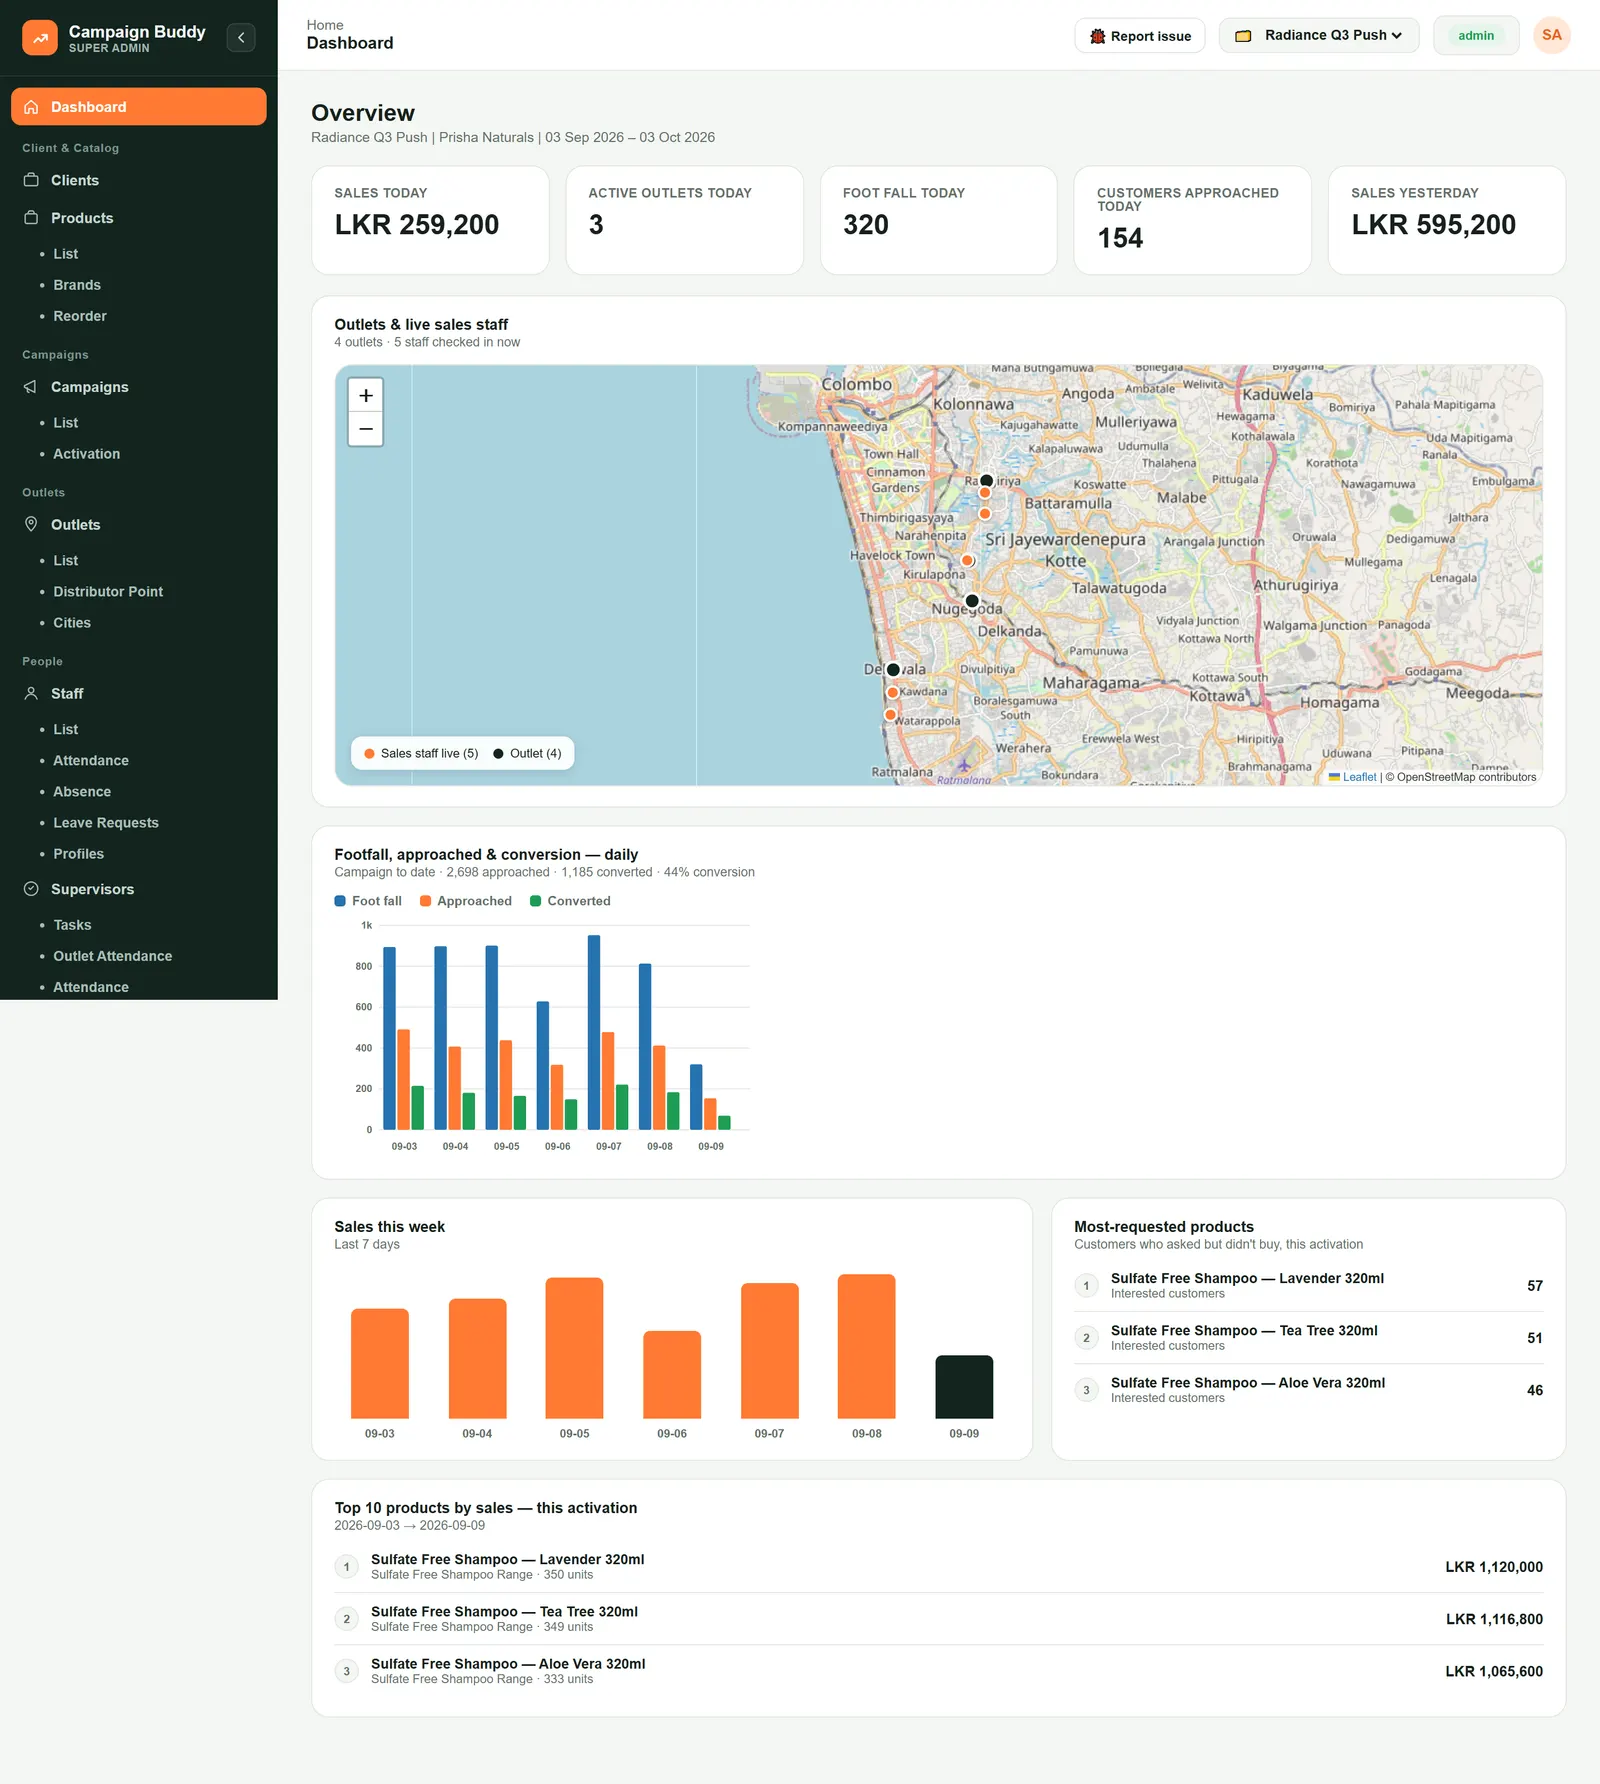
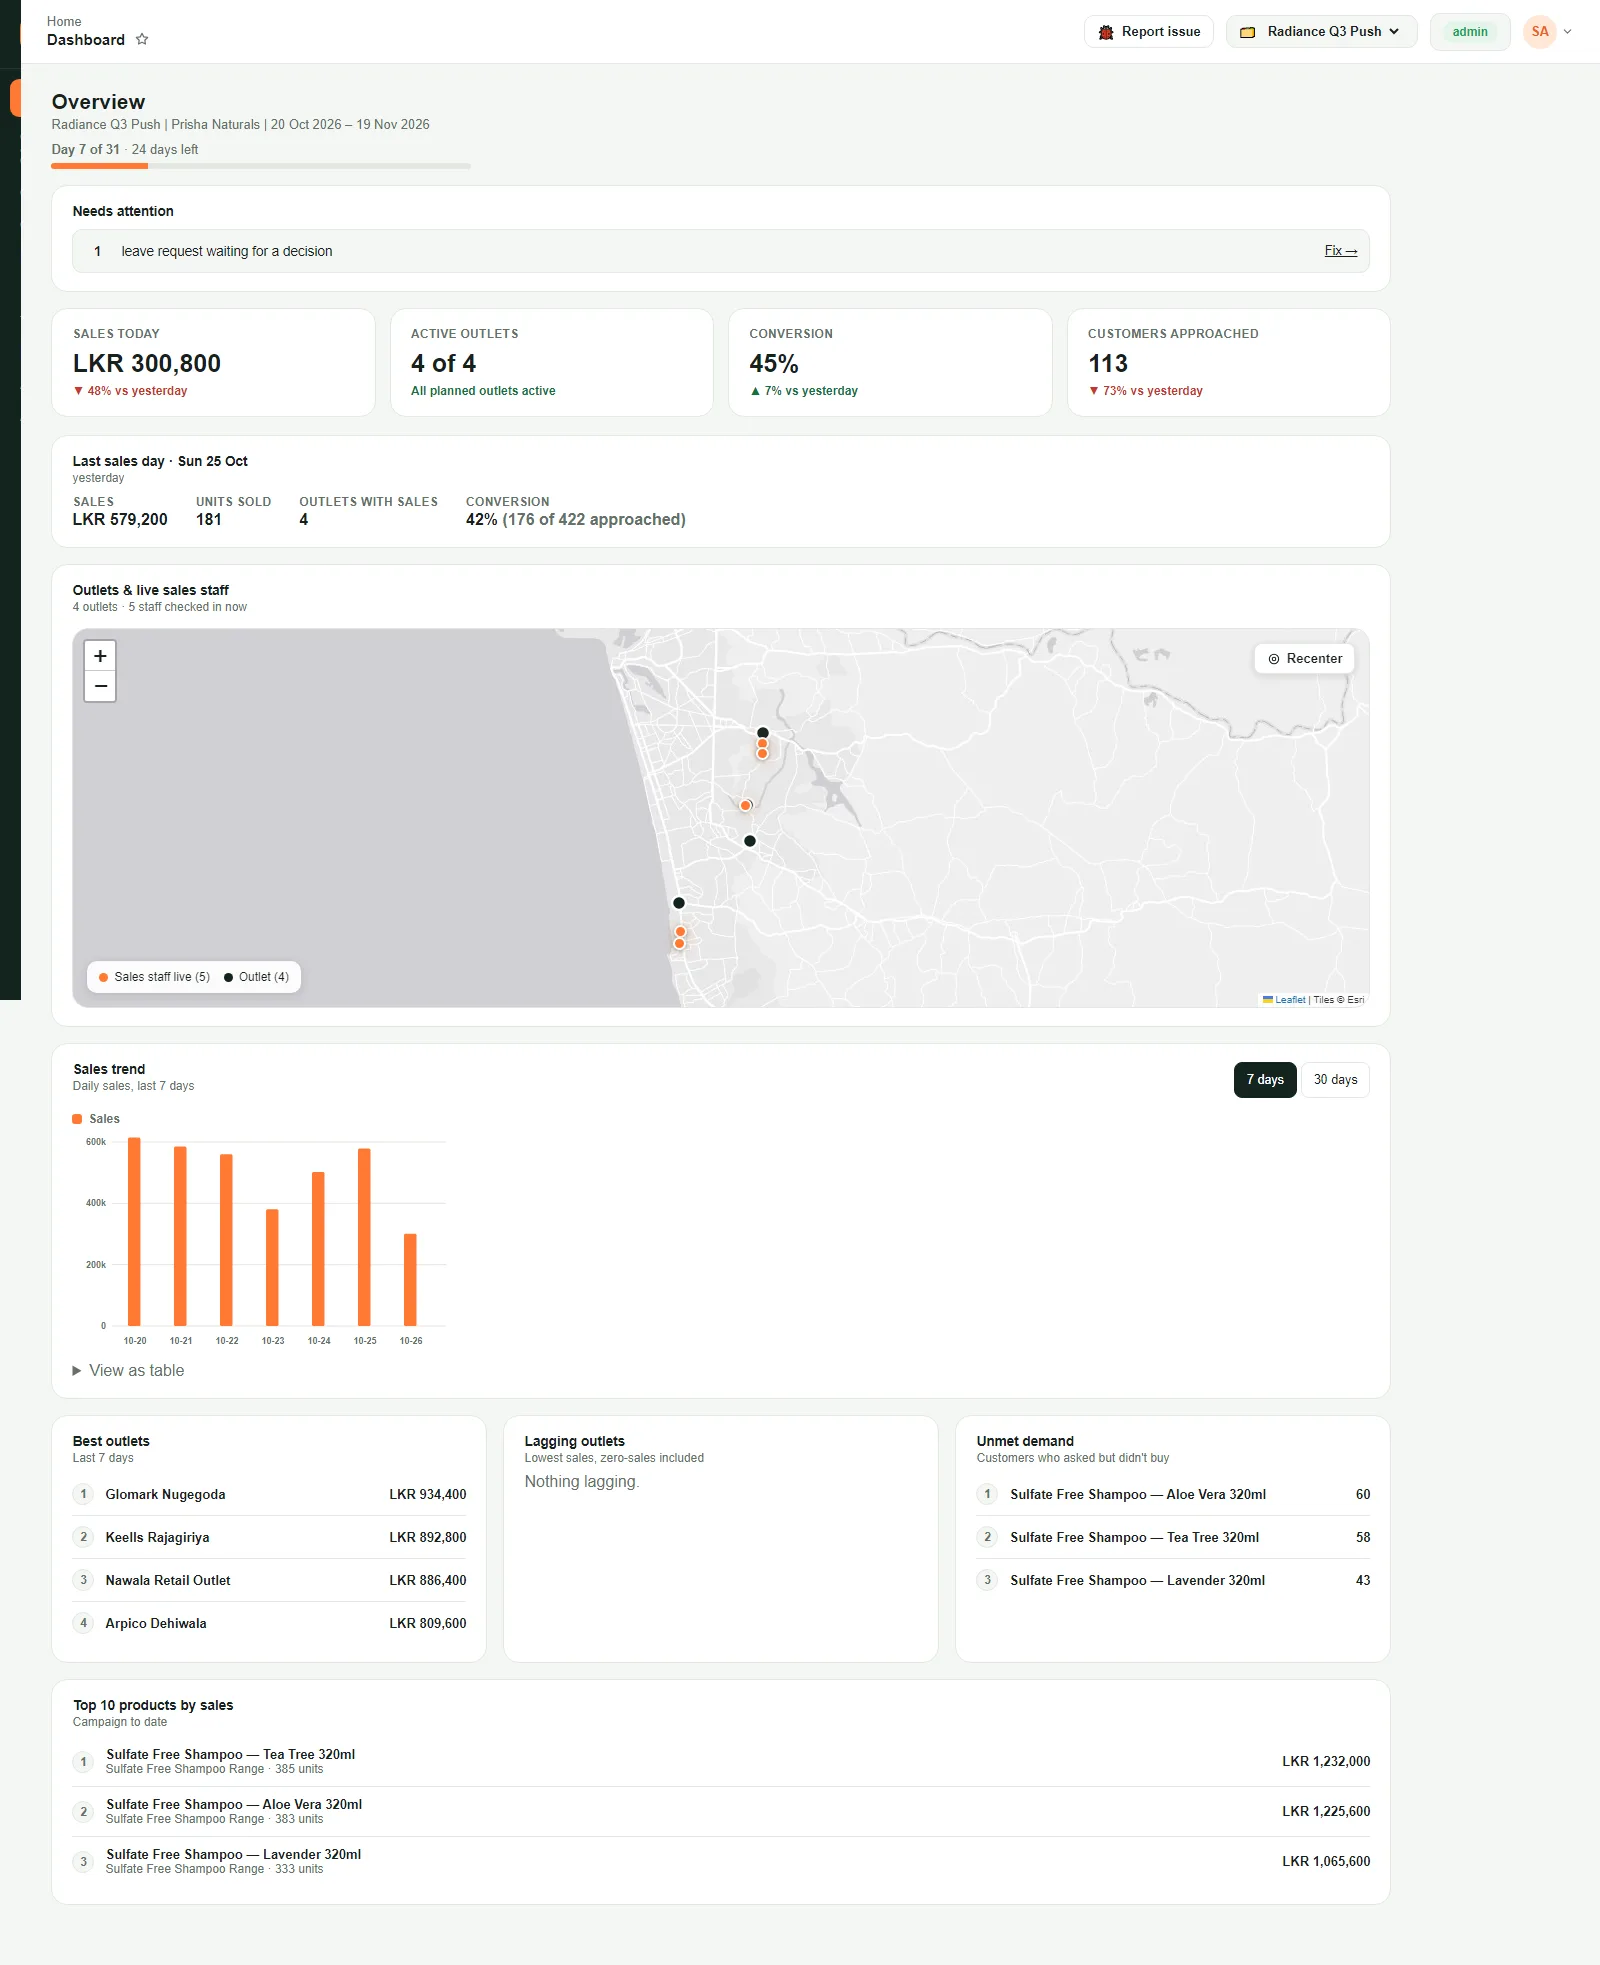
docs: Overview redesign in admin/supervisor/sponsor guides, product docs and screenshots (#114)

diff --git a/marketing/training/sponsor.html b/marketing/training/sponsor.html
@@ -66,13 +66,13 @@
       <div class="task-body">
         <ol class="steps">
           <li>
-            <div class="step-text"><p>Open the portal address in a browser, enter your <b>username</b> and <b>password</b>, and sign in. You land on your <b>Dashboard</b>.</p></div>
+            <div class="step-text"><p>Open the portal address in a browser, enter your <b>username</b> and <b>password</b>, and sign in. You land on your <b>Overview</b> (the dashboard).</p></div>
           </li>
           <li>
             <div class="step-text">
               <p>Your login is locked to the one campaign you were granted &mdash; there is no switcher to operate. The top-right shows its name so you always know which campaign you are looking at.</p>
             </div>
-            <figure><img src="assets/portal-sponsor/01-dashboard.webp" alt="Sponsor dashboard for Radiance Q3 Push with KPI tiles, a live map and top products, and the locked campaign name in the top-right" /></figure>
+            <figure><img src="assets/portal-sponsor/01-dashboard.webp" alt="Sponsor Overview for Radiance Q3 Push with progress, KPI tiles, sales trend and top products, and the locked campaign name in the top-right" /></figure>
           </li>
           <li>
             <div class="step-text">
@@ -90,14 +90,14 @@
         <ol class="steps">
           <li>
             <div class="step-text">
-              <p>The tiles at the top are <b>today so far</b>: total sales, footfall, how many outlets have a promoter checked in right now, and how many outlets are active today. They update as promoters work.</p>
+              <p>At the top is <b>Day x of y</b> campaign progress. The four tiles are <b>today so far</b>: <b>Sales today</b>, <b>Active outlets</b> (x of y), <b>Conversion</b> and <b>Customers approached</b>, each with a green or red change against yesterday. <b>Last sales day</b> shows the most recent earlier day that had sales, which may be several days ago. A brand-new campaign shows a <b>Set up your campaign</b> checklist until the first sales arrive.</p>
             </div>
           </li>
           <li>
-            <div class="step-text"><p>The <b>Seller live locations</b> map shows every promoter currently checked in, with their outlet. It refreshes on its own every few seconds.</p></div>
+            <div class="step-text"><p>The <b>Sales trend</b> chart shows daily sales for the last 7 or 30 days; choose <b>View as table</b> for the figures. <b>Top-performing outlets</b>, <b>Outlets with room to grow</b> and <b>Customer interest</b> (products shoppers asked about but did not buy) cover the last 7 days. Sponsors do not see staff alerts or the live promoter map here; use <b>Seller Live Locations</b> in the sidebar for that.</p></div>
           </li>
           <li>
-            <div class="step-text"><p><b>Top products</b> lists your best sellers for the campaign so far, with units and value. For anything more detailed, use the reports (task 6).</p></div>
+            <div class="step-text"><p><b>Top 10 products by sales</b> lists your best sellers for the campaign so far, with units and value. For anything more detailed, use the reports (task 6).</p></div>
           </li>
         </ol>
       </div>

diff --git a/marketing/training/supervisor.html b/marketing/training/supervisor.html
@@ -67,8 +67,8 @@
       <div class="task-body">
         <ol class="steps">
           <li>
-            <div class="step-text"><p>Sign in with your <b>username</b> and password. If you cover more than one campaign, pick the right one from the <b>campaign switcher</b> in the top-right. The header always shows which campaign and how many of its outlets you can see.</p></div>
-            <figure><img src="assets/portal-supervisor/01-dashboard.webp" alt="Supervisor dashboard showing today's KPIs and a live map for the assigned outlets" /></figure>
+            <div class="step-text"><p>Sign in with your <b>username</b> and password. If you cover more than one campaign, pick the right one from the <b>campaign switcher</b> in the top-right. The header always shows which campaign and how many of its outlets you can see. You land on the <b>Overview</b>: campaign progress (<b>Day x of y</b>), then <b>Needs attention</b> &mdash; ranked rows, each opening the page that fixes it (promoters not checked in after shift start, stale location, check-ins outside the geofence, outlets with no sales update, reorder flags, shifts left open from yesterday, pending leave), or <b>All clear</b>. Under it are the tiles <b>Sales today</b>, <b>Active outlets</b>, <b>Conversion</b> and <b>Customers approached</b> (each with the change against yesterday), the <b>Last sales day</b> row, the live map, the <b>Sales trend</b> (7 or 30 days, <b>View as table</b>), <b>Best</b> and <b>Lagging outlets</b>, <b>Unmet demand</b> and the <b>Top 10 products</b>.</p></div>
+            <figure><img src="assets/portal-supervisor/01-dashboard.webp" alt="Supervisor Overview with campaign progress, the Needs attention strip, headline tiles and a live map for the assigned outlets" /></figure>
           </li>
           <li>
             <div class="step-text"><p>Open <b>My Campaigns</b> for the list of activations you supervise, which promoter is at which outlet, and the dates. Tap the eye icon to see the detail of one.</p></div>

diff --git a/marketing/training/admin.html b/marketing/training/admin.html
@@ -268,7 +268,7 @@
       <div class="task-body">
         <ol class="steps">
           <li>
-            <div class="step-text"><p>Start on the <b>Dashboard</b>: active outlets today, sales today, month-to-date, top items, and the live map. Check <b>Products &rarr; Reorder</b> for anything the promoters have flagged as low.</p></div>
+            <div class="step-text"><p>Start on the <b>Overview</b> (the dashboard). Read it top to bottom: <b>Day x of y</b> campaign progress; the <b>Needs attention</b> strip, ranked rows that each open the page that fixes the problem (promoters who should be checked in but are not, location older than 12 minutes, check-ins outside the geofence, outlets with a check-in but no sales update, products flagged for reorder, shifts still open from a previous day, pending leave requests), or <b>All clear</b> when there is nothing; then the four tiles &mdash; <b>Sales today</b>, <b>Active outlets</b> (x of y), <b>Conversion</b> and <b>Customers approached</b> &mdash; each with a green or red change against yesterday. <b>Last sales day</b> shows the latest earlier day that had sales, which may be several days ago. Below are the live map, the <b>Sales trend</b> (7 or 30 days, with <b>View as table</b>), <b>Best outlets</b>, <b>Lagging outlets</b>, <b>Unmet demand</b> and the <b>Top 10 products</b>. A brand-new campaign shows a <b>Set up your campaign</b> checklist (products, activations, promoters) instead of zeros. Also check <b>Products &rarr; Reorder</b> for anything promoters have flagged as low.</p></div>
             <figure><img src="assets/portal-admin/05-reorder.webp" alt="Reorder screen listing items at or below their reorder level per outlet" /></figure>
           </li>
           <li>

diff --git a/marketing/training/capture/portal.js b/marketing/training/capture/portal.js
@@ -30,6 +30,8 @@ const SHOTS = [
 
   { persona: 'supervisor', route: '/sales/sku-wise', outfile: 'assets/portal-supervisor/07-sales-sku-wise.webp' },
 
+  { persona: 'admin', route: '/dashboard', outfile: 'assets/portal-admin/01-dashboard.webp' },
+  { persona: 'supervisor', route: '/dashboard', outfile: 'assets/portal-supervisor/01-dashboard.webp' },
   { persona: 'sponsor', route: '/dashboard', outfile: 'assets/portal-sponsor/01-dashboard.webp' },
   { persona: 'sponsor', route: '/sponsor/sales', outfile: 'assets/portal-sponsor/03-sponsor-sales.webp' },
   { persona: 'sponsor', route: '/reports/client-brand-wise', outfile: 'assets/portal-sponsor/06-reports-brand-wise.webp' },

diff --git a/docs/product-documentation.md b/docs/product-documentation.md
@@ -176,17 +176,36 @@ concurrent outlet Activations in a day where a promoter has one.
 The portal is a left-sidebar web app. Below, each module is described with its
 purpose, what's on the screen, and which roles see it.
 
-### 4.1 Dashboard  *(Admin only)*
+### 4.1 Overview (dashboard)  *(Admin, Supervisor, Sponsor)*
 
-At-a-glance KPIs for the selected campaign, composed live from the underlying data:
+An attention-first summary of the selected campaign, served by one aggregated
+call (`GET /campaigns/:campaignId/dashboard`). "Today" is the Colombo day. For
+admins and supervisors, top to bottom:
 
-- Stat tiles: **active outlets today**, **sales today**, **active outlets
-  yesterday**, **sales yesterday**.
-- A **month-to-date summary**: total sales, total units sold, average sales.
-- Top items by sales for the campaign.
+- **Campaign progress** — "Day x of y" and days left.
+- **Needs attention** — ranked rows, each linking to the page that fixes it:
+  promoters who should be checked in but are not (after shift start), location
+  older than 12 minutes, check-ins outside the geofence, outlets with a check-in
+  but no sales update, products flagged for reorder, shifts from a previous day
+  still open, and pending leave requests. Shows **All clear** when empty.
+- **Four headline tiles** — **Sales today**, **Active outlets** (x of y planned),
+  **Conversion**, **Customers approached** — each with a green/red change vs
+  yesterday.
+- **Last sales day** — the latest earlier day with sales (may be several days
+  ago): sales, units, outlets with sales, conversion.
+- The **live map** of outlets and checked-in staff.
+- **Sales trend** — 7 or 30 day toggle, plus **View as table**.
+- **Best outlets** and **Lagging outlets** (last 7 days; zero-sales outlets
+  included) and **Unmet demand** (products customers asked for but did not buy).
+- **Top 10 products** by sales.
 
-Sponsors get a **parallel Sponsor Dashboard**: today's outlet count, total sales
-and footfall, top products, plus an embedded **live promoter map**.
+A campaign with no products or activations yet shows a **Set up your campaign**
+checklist instead of zeros. Results respect the user's outlet grants.
+
+**Sponsors** see the same page without the attention strip and the map (staff,
+attendance and location signals are never shown to sponsors); the panels are
+named **Top-performing outlets**, **Outlets with room to grow** and **Customer
+interest**.
 
 ### 4.2 Clients & Catalog  *(Admin only)*
 

diff --git a/docs/admin-panel-spec.md b/docs/admin-panel-spec.md
@@ -97,8 +97,9 @@ Sidebar sections, with which roles see them:
 ## 3. Module-by-Module Detail
 
 ### 3.1 Dashboard (`/dashboard`)
-**Purpose:** At-a-glance KPI summary for today/yesterday and the month.
-**Elements:** a top campaign/client filter select (**redundant once the global Campaign Switcher ships — keep only one**); 4 stat tiles (Active outlets today, Sales today, Active outlets yesterday, Sales yesterday); two chart panels (date-range chart, monthly bar chart); "Monthly summary" section (Total Sales, Total Units Sold, Average Sales, plus supporting cards — verify with a wider viewport, original audit viewport cut this off).
+**Purpose:** Attention-first Overview for the selected campaign (#114). Data comes from one call, `GET /admin/v1/campaigns/:campaignId/dashboard` (see Backend Spec). Campaign selection is the global Campaign Switcher.
+**Elements (admin / supervisor, top to bottom):** campaign progress ("Day x of y"); **Needs attention** strip (ranked rows linking to the fixing page: promoters not checked in after shift start, location older than 12 min, check-ins outside geofence, outlets with check-in but no sales update, reorder flags, previous-day shifts still open, pending leave; "All clear" when empty); 4 headline tiles (Sales today, Active outlets x of y, Conversion, Customers approached) each with a green/red change vs yesterday; **Last sales day** row (latest earlier day with sales, may be several days ago); live map; **Sales trend** (7/30 day toggle, "View as table"); **Best outlets** / **Lagging outlets** (7 days, zero-sales included) and **Unmet demand** panels; **Top 10 products**. A new campaign (no products or activations) shows a **Set up your campaign** checklist instead of zeros.
+**Sponsor variant (`view: "sponsor"`):** no attention strip, no map; panels renamed **Top-performing outlets**, **Outlets with room to grow**, **Customer interest**.
 
 ### 3.2 Clients (`/clients/all`)
 Manage client companies. Backed by `GET/POST /admin/v1/clients`, `PATCH/DELETE /admin/v1/clients/:id`.
